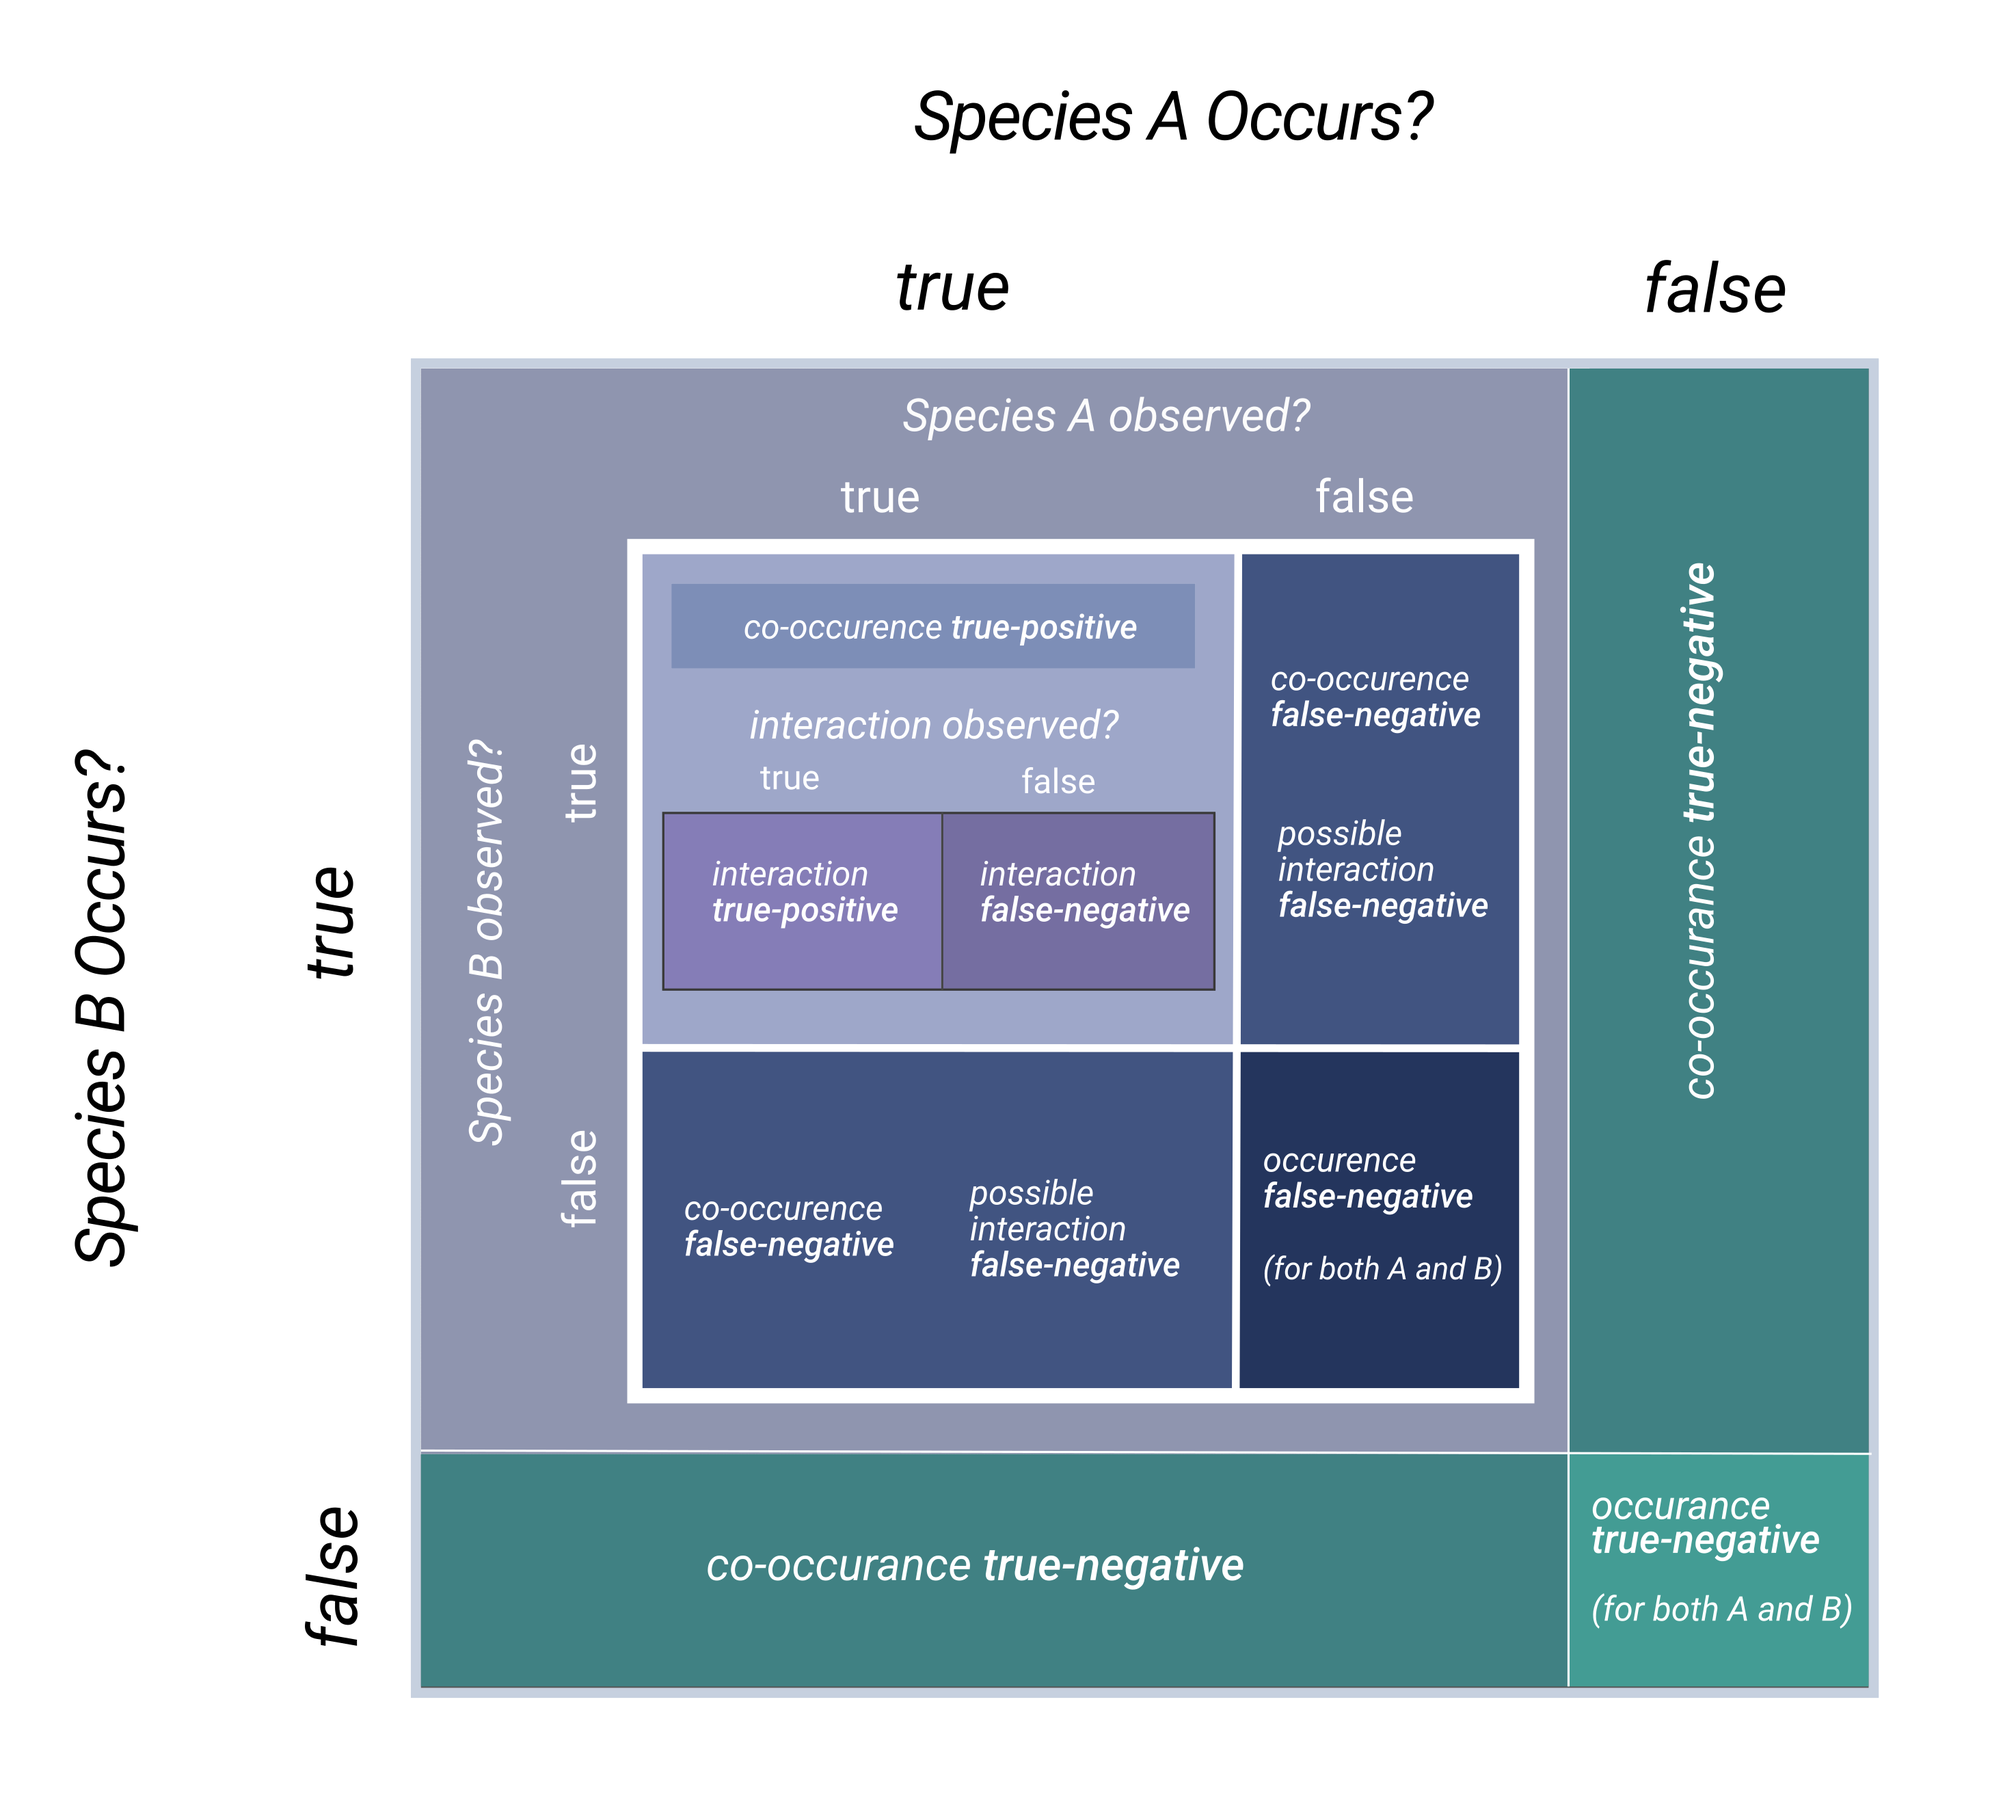
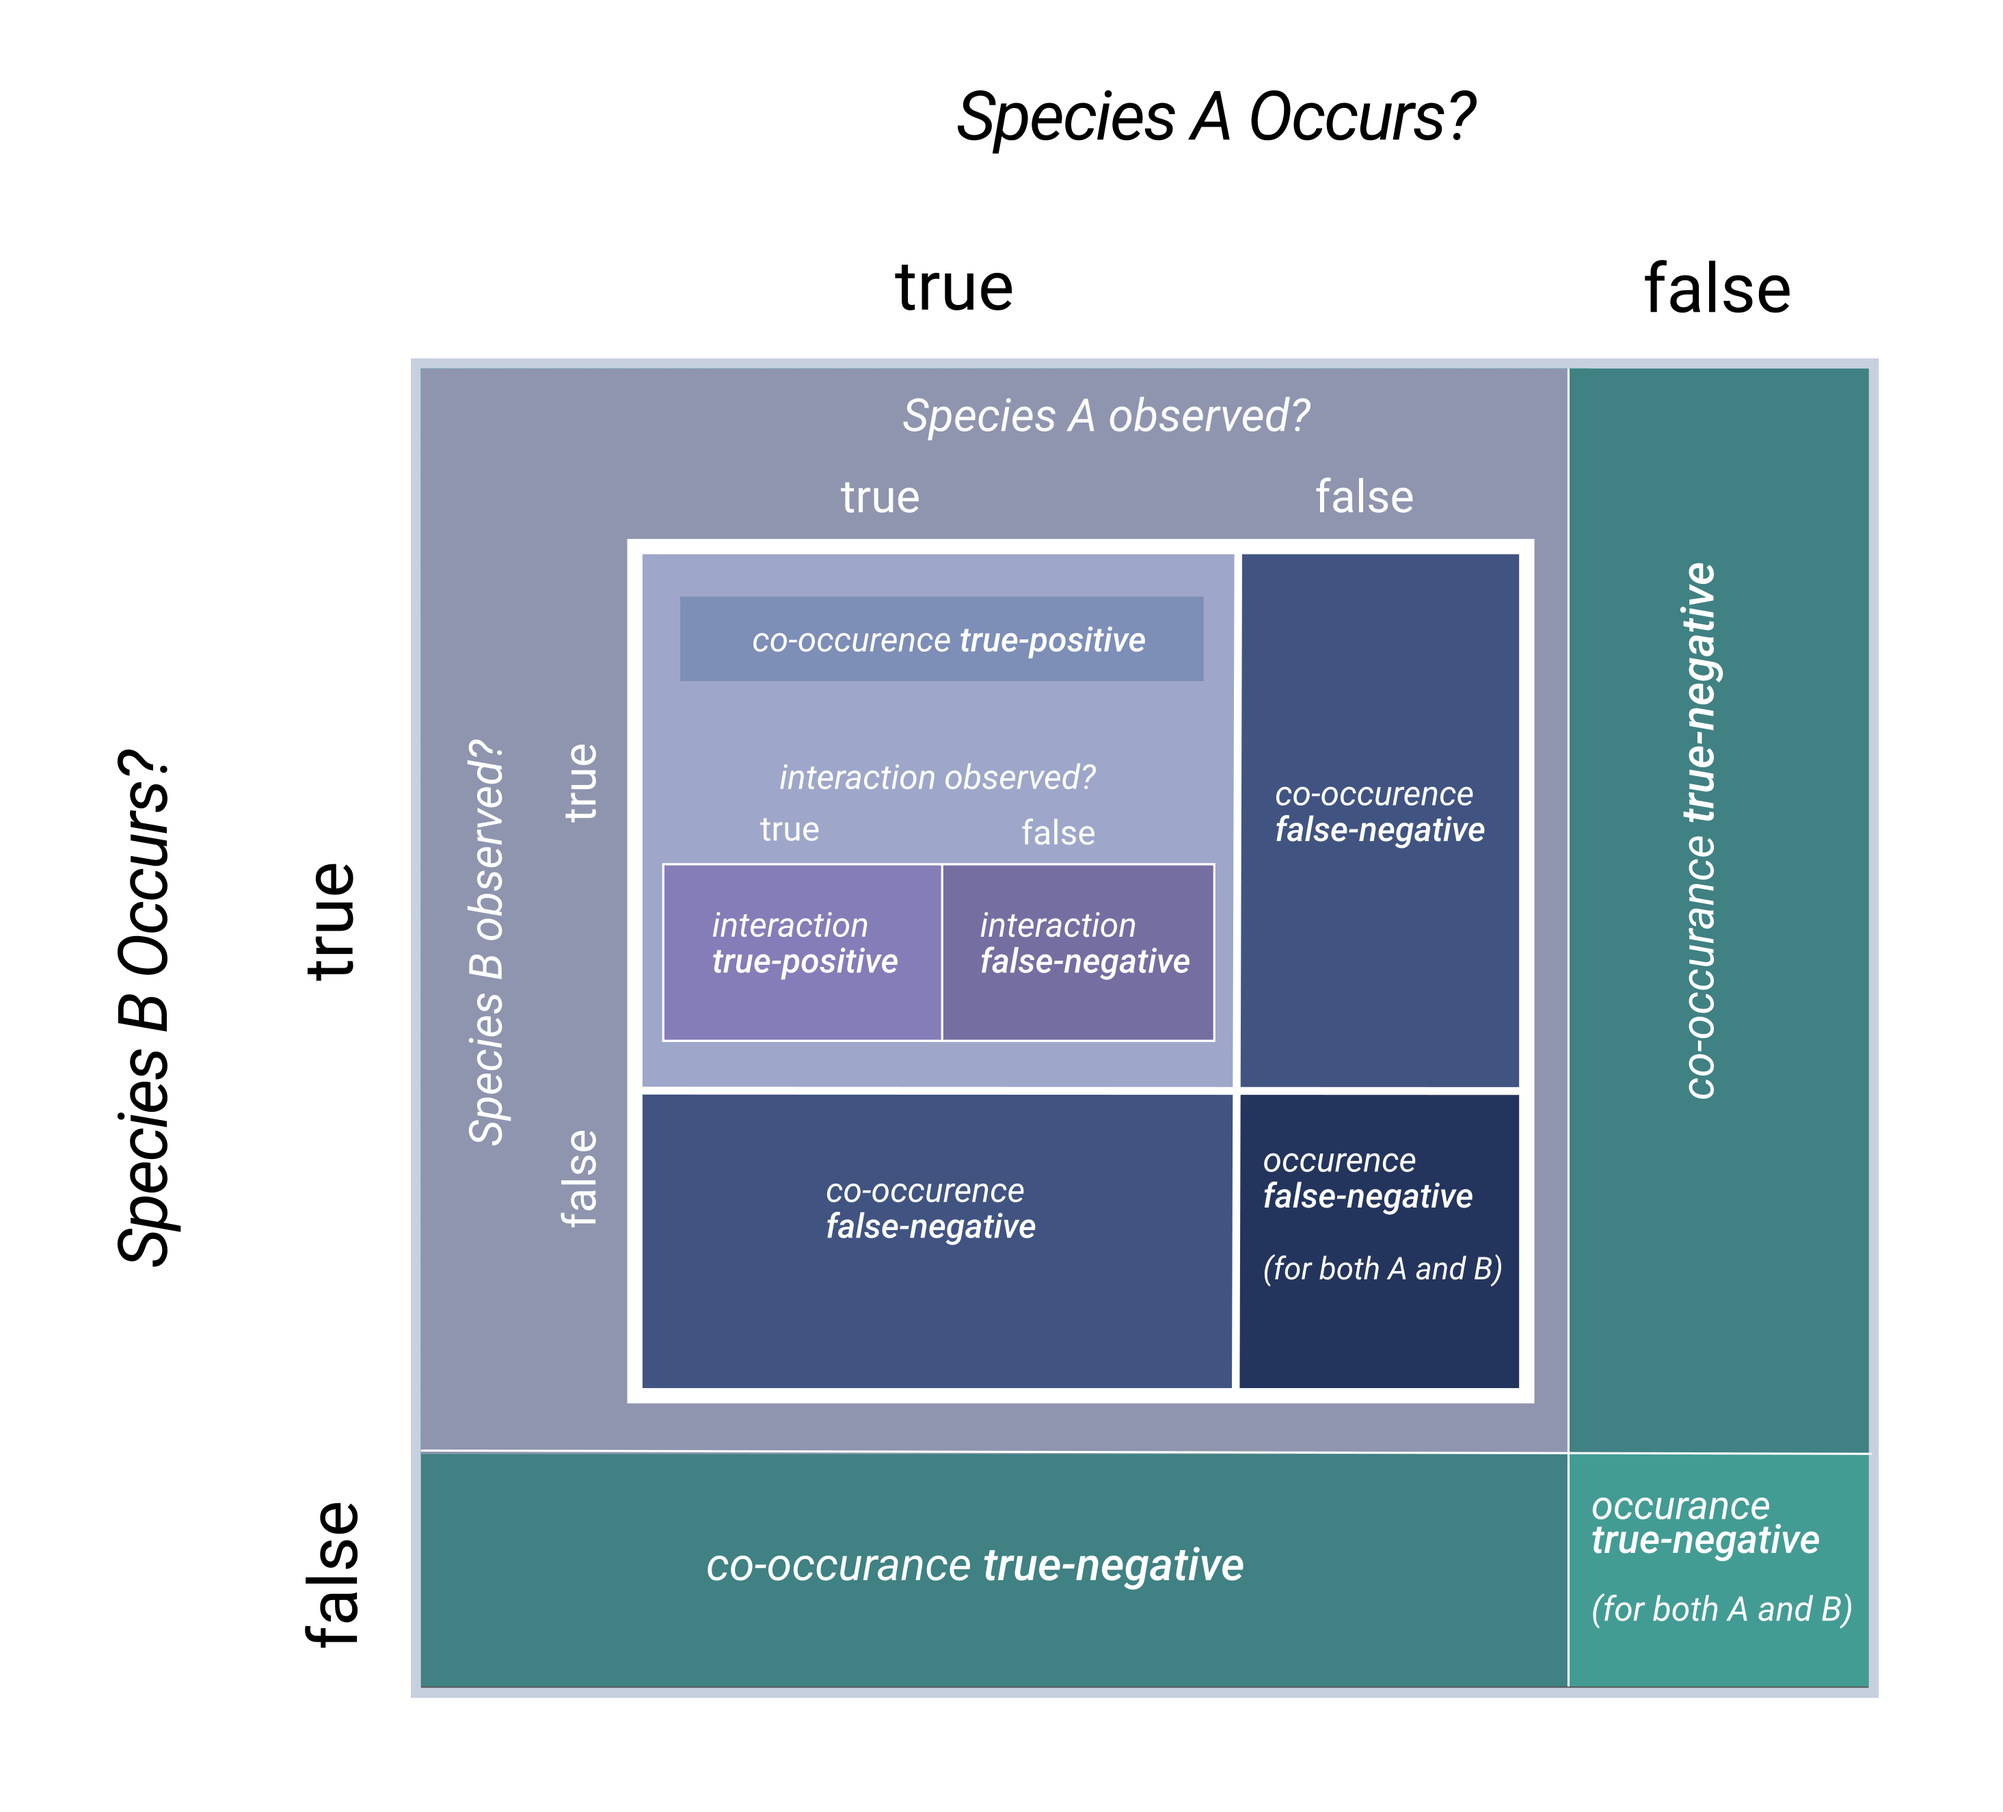
fig cleaning

diff --git a/manuscript.md b/manuscript.md
@@ -33,7 +33,11 @@ species interacting even though they actually interact in some capacity. These
 false-negatives could go on to effect the inferences we make about network
 properties and relations among species.
 
-This issue has encouraged a long history of discourse. Initially the concern was
+This issue has encouraged a long history of discourse.
+
+occurrence false negatives, decalring extinction, etc.
+
+In the context of interactions, the initial concern was
 that the compounding effects of limited sampling effort and the amalgamation of
 data, both across study sites and across taxonomic scales, could lead any
 empirical set of observations to inadequately reflect how species interact
@@ -50,17 +54,22 @@ interactions, we know that some interactions between species will not be
 observed due to finite sampling capacity, and instead we must impute  the true
 metaweb of interactions given a set of samples [@Strydom2021RoaPre].
 
-In this we explore the relationship between total sampling
-effort (the total count of all individuals of all species seen) and
-false-negative rate. In so doing, we demonstrate that the realized false-negative
-rate is directly related to species relative abundance. Further we suggest that
-simulation of sampling effort and species occurrence can and should be used to
-help design surveys of species diversity [@Carlson2020WhaWou]. Here we seek to
-understand how false negatives in ecological interaction data impact the
-analysis and prediction of ecological networks, and also to understand how a
-better understanding of the relationship between sampling effort and likelihood
-of a "true negative" can guide how we design surveys of ecological interactions
-[@Jordano2016SamNet]. The questions we pose and attempt to answer are: 1) How
+Here we seek to understand how false negatives in ecological interaction data
+impact the analysis and prediction of ecological networks, and also to
+understand how a better understanding of the relationship between sampling
+effort and likelihood of a "true negative" can guide how we design surveys of
+ecological interactions [@Jordano2016SamNet].
+
+In this we explore the relationship between total sampling effort (the total
+count of all individuals of all species seen) and false-negative rate. In so
+doing, we demonstrate that the realized false-negative rate is directly related
+to species relative abundance. Further we suggest that simulation of sampling
+effort and species occurrence can and should be used to help design surveys of
+species diversity [@Carlson2020WhaWou].  
+
+// what about the other stuff you show 
+
+The questions we pose and attempt to answer are: 1) How
 many times do you have to observe a non-interaction between two species to be
 confident in saying that is a true negative? 2) How "wrong" are the measurements
 of network structure as a function of false-negative probability? and lastly 3)
